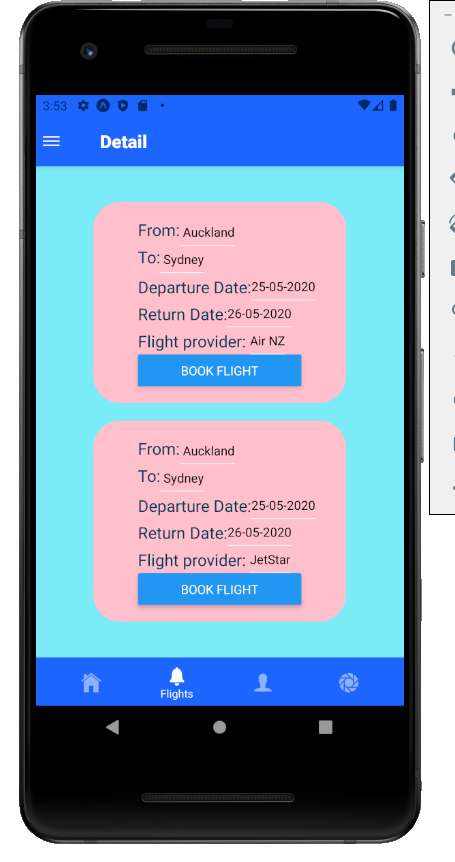
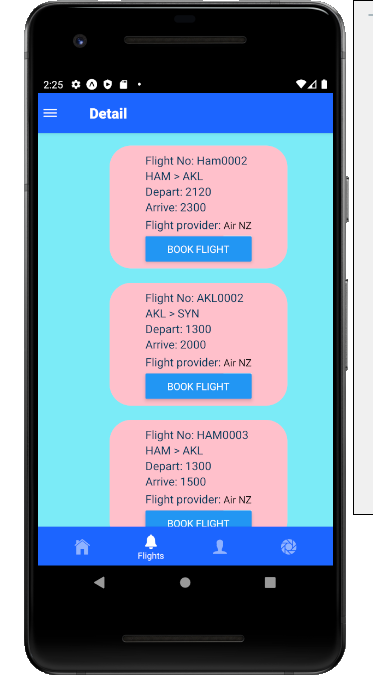
small update

diff --git a/screens/DetailsScreen.js b/screens/DetailsScreen.js
@@ -1,94 +1,61 @@
 import React from 'react';
-import { View, Text, Button, StyleSheet } from 'react-native';
+import { View, Text, Button, StyleSheet, ScrollView } from 'react-native';
 //import axios from 'axios';
+import flightData from '../flight.json';
 
 const DetailsScreen = ({navigation}) => {
     const [data, setData] = React.useState({
-            flights: [],
+            flights: flightData,
             fromFlight: null,
             toFlight:null,
             noOfPassenger: 0,
             hasReturn:false
     });
 
+    // perform some side effects
+    /**
+    React.useEffect(()=>{
+      alert(JSON.stringify(data.flights));
+    });
+     */
+    const flightResult = data.flights.map( (flight) => {
+        return (
+                    <View style={styles.targetField} key={flight.flightId}>
+                        <View style={{flexDirection:'row'}}>
+                          <Text style={styles.text_footer}>Flight No: {flight.flightId}</Text>
+                        </View>
+                        <View style={{flexDirection:'row'}}>
+                          <Text style={styles.text_footer}>{flight.origCode} > {flight.destCode}</Text>
+                        </View>
+                        <View style={{flexDirection:'row'}}>
+                          <Text style={styles.text_footer}>Depart: {flight.departure_time}</Text>
+                        </View>
+                        <View style={{flexDirection:'row'}}>
+                          <Text style={styles.text_footer}>Arrive: {flight.arrival_time}</Text>
+                        </View>                        
+                        <View style={{flexDirection:'row'}}>
+                          <Text style={[styles.text_footer, {marginTop: 3}]}>Flight provider: </Text>
+                          <View style={styles.action}>
+                            <Text>Air NZ</Text>
+                          </View>
+                        </View>            
+                        <Button
+                          title="Book Flight"
+                          onPress={() => alert('Button Clicked!')}
+                        />
+                    </View>
+          )
+    });
 
     return (
       <View style={styles.container}>
+        <ScrollView>
         <View style={styles.footer}>
-         <View style={styles.targetField}>
-            <View style={{flexDirection:'row'}}>
-              <Text style={styles.text_footer}>From:</Text>
-              <View style={styles.action}>
-                <Text> Auckland</Text>
-              </View>
-            </View>
-            <View style={{flexDirection:'row'}}>
-              <Text style={styles.text_footer}>To:</Text>
-              <View style={styles.action}>
-                <Text> Sydney</Text>
-              </View>
-            </View>
-            <View style={{flexDirection:'row'}}>
-              <Text style={[styles.text_footer, {marginTop: 3}]}>Departure Date:</Text>            
-              <View style={styles.action}>
-                <Text>25-05-2020</Text>
-              </View> 
-            </View>
-            <View style={{flexDirection:'row'}}>
-              <Text style={[styles.text_footer, {marginTop: 3}]}>Return Date:</Text>            
-              <View style={styles.action}>
-                <Text>26-05-2020</Text>
-              </View>
-            </View>
-            <View style={{flexDirection:'row'}}>
-              <Text style={[styles.text_footer, {marginTop: 3}]}>Flight provider: </Text>
-              <View style={styles.action}>
-                <Text>Air NZ</Text>
-              </View>
-            </View>            
-            <Button
-              title="Book Flight"
-              onPress={() => alert('Button Clicked!')}
-            />
-         </View> 
-
-         <View style={styles.targetField}>
-            <View style={{flexDirection:'row'}}>
-              <Text style={styles.text_footer}>From:</Text>
-              <View style={styles.action}>
-                <Text> Auckland</Text>
-              </View>
-            </View>
-            <View style={{flexDirection:'row'}}>
-              <Text style={styles.text_footer}>To:</Text>
-              <View style={styles.action}>
-                <Text> Sydney</Text>
-              </View>
-            </View>
-            <View style={{flexDirection:'row'}}>
-              <Text style={[styles.text_footer, {marginTop: 3}]}>Departure Date:</Text>            
-              <View style={styles.action}>
-                <Text>25-05-2020</Text>
-              </View> 
-            </View>
-            <View style={{flexDirection:'row'}}>
-              <Text style={[styles.text_footer, {marginTop: 3}]}>Return Date:</Text>            
-              <View style={styles.action}>
-                <Text>26-05-2020</Text>
-              </View>              
-            </View> 
-            <View style={{flexDirection:'row'}}>
-              <Text style={[styles.text_footer, {marginTop: 3}]}>Flight provider: </Text>
-              <View style={styles.action}>
-                <Text>JetStar</Text>
-              </View>
-            </View>
-            <Button
-              title="Book Flight"
-              onPress={() => alert('Button Clicked!')}
-            />            
-         </View>             
-        </View>                  
+            {
+              flightResult
+            }
+        </View>  
+        </ScrollView>                
       </View>
       
     );
@@ -116,7 +83,7 @@ const styles = StyleSheet.create({
         flex: 1,
         borderRadius: 30,
         paddingHorizontal: 100,
-        paddingVertical: 30
+        paddingVertical: 30,
     },
     text_header: {
         color: '#fff',
@@ -125,7 +92,7 @@ const styles = StyleSheet.create({
     },
     text_footer: {
         color: '#05375a',
-        fontSize: 18
+        fontSize: 16
     },
     action: {
         flexDirection: 'row',

diff --git a/screens/HomeScreen.js b/screens/HomeScreen.js
@@ -71,8 +71,13 @@ const HomeScreen = ({navigation}) => {
     };
 
     const searchHandle = (from, to, returnTrip, departureDate, returnDate, numOfPass) => {
-        updateFlightInfo(from, to, returnTrip, departureDate, returnDate, numOfPass);
-        navigation.navigate("Notifications");
+        if (data.from == '' || data.to == '' || data.noOfPass == ''){
+            alert("Please enter all the search information before clicking search button!")
+        }else{
+            updateFlightInfo(from, to, returnTrip, departureDate, returnDate, numOfPass);
+            navigation.navigate("Notifications");            
+        }
+
     }    
     return (
       <View style={styles.container}>
